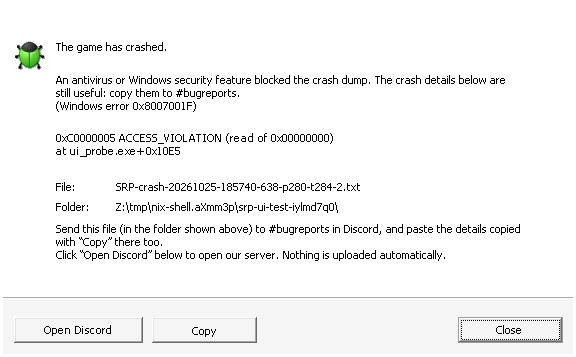
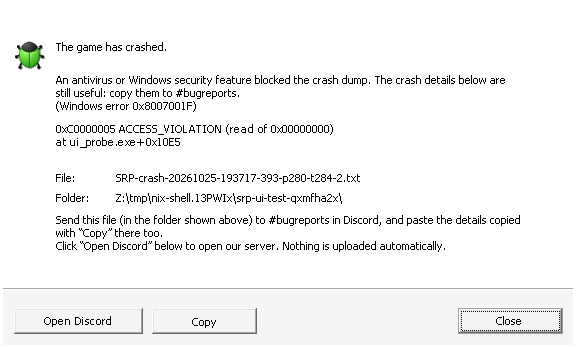
Crash reporter: review fixes for the crash details
- The stack scan could loop for ever: with ESP not 4-aligned and more
  than 256 KiB below the stack's top, its bound was unaligned and a last
  read of 1-3 bytes did not move it on, so the game hung. The bound is
  now whole dwords and a read of under 4 bytes ends the scan. The report
  is now made only after the dump is closed, so nothing in it can cost
  the dump. report_probe gains the reviewer's case (deep, misaligned).
- The log filter now takes the game's own [HH:MM:SS:mmm] as a record's
  clock (it took only [HH:MM:SS.mmm]), and the log tail starts at the
  first line that starts a record, never inside a sensitive record's
  continuation lines.
- The status line shrinks to its text, so the "saved" state has no
  empty band above the details.

diff --git a/client/bugtrap/tests/check_report.py b/client/bugtrap/tests/check_report.py
@@ -16,11 +16,10 @@ import zipfile
 build = Path(sys.argv[1]).resolve()
 assert os.environ.get("WINEPREFIX"), "set a disposable WINEPREFIX"
 
-# A game log as the game writes it: 30 records, one of them with a password.
-# (The filter frames records by [HH:MM:SS.mmm]; the game writes [HH:MM:SS:mmm],
-# so the records after a removed one go with it: omission, the safe side.)
+# A game log as the game writes it ([HH:MM:SS:mmm]): 30 records, one of them
+# with a password and an unframed continuation line.
 LOG = "".join(
-    f"game <INFO>\t[12:00:{n:02}:000]\t" + ("login password=hunter2" if n == 25 else f"record {n}") + "\r\n"
+    f"game <INFO>\t[12:00:{n:02}:000]\t" + ("login password=hunter2\r\nsecond-hunter2" if n == 25 else f"record {n}") + "\r\n"
     for n in range(1, 31)
 ).encode()
 
@@ -41,7 +40,9 @@ with tempfile.TemporaryDirectory(prefix="srp-report-test-") as temporary:
     docs = root / "Documents"
     (docs / "Survarium").mkdir(parents=True)
     (docs / "Survarium" / "Survarium_tester.log").write_bytes(LOG)
-    for mode in ("write", "cpp"):
+    # deep, misaligned: the review of PR 459, a stack 400 KB deep, ESP not
+    # 4-aligned; the scan once hung there, and the game with it, with no dump.
+    for mode in ("write", "cpp", "deep", "misaligned"):
         before = set(game.iterdir())
         result = subprocess.run(["wine", str(game / "report_probe.exe"), "Z:" + str(docs), mode],
                                 cwd=root, capture_output=True, timeout=60)
@@ -62,18 +63,25 @@ with tempfile.TemporaryDirectory(prefix="srp-report-test-") as temporary:
             assert "\r\nException: 0xC0000005 ACCESS_VIOLATION (write to 0x00000000)\r\n" in text, text
             module, at = offset(text, "Address:")
             assert module == "report_probe.exe" and rva["fault"] <= at < rva["fault"] + 0x40, (at, rva, text)
-        else:
+        elif mode == "cpp":
             assert "\r\nException: 0xE06D7363 C++ exception (.?AVbad_alloc@std@@)\r\n" in text, text
-        # The caller's return address is on the stack scan, as module+offset.
+        else:
+            assert "\r\nException: 0xC0000005 ACCESS_VIOLATION (write to 0x00000000)\r\n" in text, text
+            assert offset(text, "Address:")[0] == "report_probe.exe", text
+            esp = int(re.search(r" ESP=([0-9A-F]{8}) ", text)[1], 16)
+            assert (esp % 4 != 0) == (mode == "misaligned"), (mode, text)
         stack = re.findall(r"report_probe\.exe\+0x([0-9A-F]+)", text.split("Stack:", 1)[1].split("Game:", 1)[0])
-        assert any(rva["caller"] < int(at, 16) < rva["caller"] + 0x80 for at in stack), (stack, rva, text)
+        if mode in ("write", "cpp"):
+            # The caller's return address is on the stack scan, as module+offset.
+            assert any(rva["caller"] < int(at, 16) < rva["caller"] + 0x80 for at in stack), (stack, rva, text)
         assert re.search(r"\r\nThread:    \d+\r\nRegisters: EAX=[0-9A-F]{8} ", text), text
         assert "\r\nGame:      report_probe.exe, patch revision unknown, sha256 " in text, text
         assert re.search(r"\r\nWindows:   \d+\.\d+\.\d+ \(Wine [^)]+\)\r\n", text), text
         assert "\r\nDump:      saved\r\n" in text, text
         # The game log's last 20 lines, the password's record removed.
         tail = text.split("\r\nGame log:  ", 1)[1]
-        assert "record 11\r\n" in tail and "record 24\r\n" in tail and "record 10\r\n" not in tail, tail
+        assert "record 12\r\n" in tail and "record 24\r\n" in tail and "record 30\r\n" in tail, tail
+        assert "record 11\r\n" not in tail, tail  # 31 lines: the 20 last start at record 12
         assert "hunter2" not in text and "[SRP: sensitive log record removed]" in tail, tail
         print(f"PASS {mode}: {text.splitlines()[1]} at {offset(text, 'Address:')[0]}+..., "
               f"{len(stack)} probe frames on the stack, log tail filtered", flush=True)

diff --git a/client/bugtrap/src/ui.rs b/client/bugtrap/src/ui.rs
@@ -145,6 +145,7 @@ unsafe extern "system" fn dialog(window: HWND, msg: u32, wp: usize, lp: isize) -
                 (EC_LEFTMARGIN | EC_RIGHTMARGIN) as usize,
                 0,
             );
+            tighten(window);
             if data.have_dump {
                 SetDlgItemTextW(window, 1034, data.filename);
                 SetDlgItemTextW(window, 1035, data.folder);
@@ -298,6 +299,93 @@ unsafe extern "system" fn dialog(window: HWND, msg: u32, wp: usize, lp: isize) -
         _ => 0,
     }
 }
+/// The status line has room for four lines; with fewer, everything below it
+/// moves up by what is left over and the dialog is that much shorter.
+unsafe fn tighten(window: HWND) {
+    let message = GetDlgItem(window, 1031);
+    let mut bounds: RECT = core::mem::zeroed();
+    GetWindowRect(message, &mut bounds);
+    MapWindowPoints(null_mut(), window, (&mut bounds as *mut RECT).cast(), 2);
+    let mut text = [0u16; 1024];
+    let n = GetWindowTextW(message, text.as_mut_ptr(), text.len() as i32);
+    let mut needed = RECT {
+        left: 0,
+        top: 0,
+        right: bounds.right - bounds.left,
+        bottom: 0,
+    };
+    let dc = GetDC(message);
+    let old = SelectObject(dc, SendMessageW(message, WM_GETFONT, 0, 0) as HGDIOBJ);
+    DrawTextW(
+        dc,
+        text.as_ptr(),
+        n,
+        &mut needed,
+        DT_CALCRECT | DT_WORDBREAK | DT_NOPREFIX,
+    );
+    SelectObject(dc, old);
+    ReleaseDC(message, dc);
+    // A gap of 4 dialog units stays between the status and the details.
+    let mut gap = RECT {
+        left: 0,
+        top: 0,
+        right: 0,
+        bottom: 4,
+    };
+    MapDialogRect(window, &mut gap);
+    let slack = bounds.bottom - bounds.top - needed.bottom - gap.bottom;
+    if n == 0 || slack <= 0 {
+        return;
+    }
+    let width = bounds.right - bounds.left;
+    SetWindowPos(
+        message,
+        null_mut(),
+        0,
+        0,
+        width,
+        needed.bottom + gap.bottom,
+        SWP_NOMOVE | SWP_NOZORDER | SWP_NOACTIVATE,
+    );
+    for id in [
+        1039, 1040, 1042, 1037, 1034, 1038, 1035, 1036, 1033, 1013, 1041, IDCANCEL,
+    ] {
+        let control = GetDlgItem(window, id);
+        if control.is_null() {
+            continue;
+        }
+        let mut r: RECT = core::mem::zeroed();
+        GetWindowRect(control, &mut r);
+        MapWindowPoints(null_mut(), window, (&mut r as *mut RECT).cast(), 2);
+        // The white panel behind the text gets shorter; the rest moves up.
+        let (top, height) = if id == 1039 {
+            (r.top, r.bottom - r.top - slack)
+        } else {
+            (r.top - slack, r.bottom - r.top)
+        };
+        SetWindowPos(
+            control,
+            null_mut(),
+            r.left,
+            top,
+            r.right - r.left,
+            height,
+            SWP_NOZORDER | SWP_NOACTIVATE,
+        );
+    }
+    let mut frame: RECT = core::mem::zeroed();
+    GetWindowRect(window, &mut frame);
+    SetWindowPos(
+        window,
+        null_mut(),
+        frame.left,
+        frame.top + slack / 2,
+        frame.right - frame.left,
+        frame.bottom - frame.top - slack,
+        SWP_NOZORDER | SWP_NOACTIVATE,
+    );
+}
+
 /// Puts `text` on the clipboard as Unicode text.
 unsafe fn copy(window: HWND, text: &[u16]) -> bool {
     const CF_UNICODETEXT: u32 = 13;

diff --git a/client/bugtrap/tests/sanitize_tests.rs b/client/bugtrap/tests/sanitize_tests.rs
@@ -123,3 +123,38 @@ fn failure_after_sensitive_record_is_not_hidden_by_dropped_output() {
     assert!(filter.read(&mut out).unwrap() > 0);
     assert_eq!(filter.read(&mut out), Err(1234));
 }
+#[test]
+fn the_games_own_clock_frames_a_record() {
+    // The game writes [HH:MM:SS:mmm]: after a removed record, the next one
+    // of the game's is kept, its unframed continuation is not.
+    let text = b"game <INFO>\t[12:00:01:000]\tlogin password=SYNTHETIC\r\ncontinued-SYNTHETIC\r\ngame <INFO>\t[12:00:02:000]\tloading level\r\n";
+    let (out, removed) = filter(text, 5).unwrap();
+    let out = String::from_utf8(out).unwrap();
+    assert_eq!(removed, 2);
+    assert!(!out.contains("SYNTHETIC"), "{out}");
+    assert!(
+        out.ends_with("game <INFO>\t[12:00:02:000]\tloading level\r\n"),
+        "{out}"
+    );
+    // Not a clock: other separators, or not digits.
+    let fake = b"game <INFO>\t[12:00:01:000]\tpassword=SYNTHETIC\r\nx <INFO>\t[12:00:02,000]\tSYNTHETIC\r\n";
+    let (out, _) = filter(fake, 5).unwrap();
+    assert!(!out.windows(9).any(|b| b == b"SYNTHETIC"));
+}
+#[test]
+fn a_tail_starts_at_a_record_never_inside_a_continuation() {
+    // A tail cut inside a sensitive record's continuation lines.
+    let tail = b"continued-SYNTHETIC\r\nmore-SYNTHETIC\r\ngame <INFO>\t[12:00:02:000]\tloading level\r\nrender <ERROR>\t[12:00:03:000]\tmissing\r\n";
+    let from = sanitize::from_record(tail);
+    assert!(from.starts_with(b"game <INFO>"));
+    let (out, _) = filter(from, 7).unwrap();
+    assert!(!out.windows(9).any(|b| b == b"SYNTHETIC"));
+    assert!(out.ends_with(b"missing\r\n"));
+    // Updater records count too; nothing framed at all gives nothing.
+    assert!(sanitize::from_record(b"x\n2026-10-18 12:00:00 start\n").starts_with(b"2026-"));
+    assert!(sanitize::from_record(b"only\ncontinuation\n").is_empty());
+    assert_eq!(
+        sanitize::from_record(tail.as_slice()).len(),
+        tail.len() - 37
+    );
+}

diff --git a/client/bugtrap/tests/report_probe.cpp b/client/bugtrap/tests/report_probe.cpp
@@ -1,11 +1,13 @@
 // A real, unhandled crash for the text report (tests/check_report.py): a null
 // write two calls deep, or an MSVC-style C++ throw of std::bad_alloc that
-// nothing catches. It prints where its functions are, so the report's
+// nothing catches, or (from the review of PR 459) a null write with the
+// stack 400 KB deep, ESP 4-aligned or not ("deep", "misaligned"). It prints where its functions are, so the report's
 // module+offset and stack can be checked. Builds with MinGW (no __try).
 // Only for a disposable test profile: it redirects that profile's Documents.
 #include <windows.h>
 #include <stdio.h>
 #include <wchar.h>
+#include <malloc.h>
 
 #ifdef _MSC_VER
 #define NOINLINE __declspec(noinline)
@@ -74,5 +76,22 @@ int wmain(int argc, wchar_t** argv)
     Print("fault", (void*)Fault);
     Print("throw", (void*)Throw);
     Print("caller", (void*)Caller);
+    int misaligned = !wcscmp(argv[2], L"misaligned");
+    if (misaligned || !wcscmp(argv[2], L"deep")) {
+        // More than the scan's 256 KiB below the stack's top: with ESP not
+        // 4-aligned, the scan's bound is not either.
+        volatile char* deep = (volatile char*)_alloca(400 * 1024);
+        deep[0] = 1;
+#ifdef _MSC_VER
+        if (misaligned) __asm { sub esp, 2 }
+        __asm { xor eax, eax }
+        __asm { mov dword ptr [eax], 0x5A5A }
+#else
+        if (misaligned)
+            __asm__ volatile("subl $2, %%esp\n\tmovl $0, %%eax\n\tmovl $0x5A5A, (%%eax)" ::: "eax", "memory");
+        else
+            __asm__ volatile("movl $0, %%eax\n\tmovl $0x5A5A, (%%eax)" ::: "eax", "memory");
+#endif
+    }
     return Caller(!wcscmp(argv[2], L"cpp"), nowhere) ? 5 : 6;
 }

diff --git a/client/bugtrap/src/dump.rs b/client/bugtrap/src/dump.rs
@@ -267,15 +267,6 @@ unsafe extern "system" fn worker(parameter: *mut c_void) -> u32 {
     let mut error = ERROR_MOD_NOT_FOUND;
     let mut partial = false;
     let mut capture = false;
-    // A crash's text report: made whatever becomes of the dump.
-    let mut report = crate::report::Report::new();
-    if request.crash {
-        crate::report::collect(
-            &mut report,
-            request.exception.ExceptionPointers,
-            request.exception.ThreadId,
-        );
-    }
     if !library.is_null() {
         if let Some(proc) = GetProcAddress(library, c"MiniDumpWriteDump".as_ptr().cast()) {
             let write_dump: WriteDump = core::mem::transmute(proc);
@@ -307,6 +298,16 @@ unsafe extern "system" fn worker(parameter: *mut c_void) -> u32 {
         }
     }
     let kept = request.saved || partial;
+    // A crash's text report, whatever became of the dump: made only now that
+    // the dump is closed, so no fault or hang in it can cost the dump.
+    let mut report = crate::report::Report::new();
+    if request.crash {
+        crate::report::collect(
+            &mut report,
+            request.exception.ExceptionPointers,
+            request.exception.ThreadId,
+        );
+    }
     crate::report::finish(&mut report, request.saved, partial, error, capture);
     // The text report beside the dump (or, with none, beside the exe or in
     // the temporary folder, and the dialog names it in the dump's place);

diff --git a/client/bugtrap/src/report.rs b/client/bugtrap/src/report.rs
@@ -144,7 +144,10 @@ unsafe fn stack(w: &mut dyn Write, esp: usize) -> usize {
     {
         return 0;
     }
-    let end = (info.BaseAddress as usize + info.RegionSize).min(esp.saturating_add(STACK_BYTES));
+    // Whole dwords only: with an unaligned ESP the 256 KiB bound is unaligned,
+    // and a last read of 1-3 bytes would not move the scan on.
+    let end =
+        (info.BaseAddress as usize + info.RegionSize).min(esp.saturating_add(STACK_BYTES)) & !3;
     // The last region asked about: [start, end) and whether it is image code.
     let mut code = (0usize, 0usize, false);
     let mut found = 0;
@@ -162,7 +165,7 @@ unsafe fn stack(w: &mut dyn Write, esp: usize) -> usize {
             want,
             &mut n,
         ) == 0
-            || n == 0
+            || n < 4
         {
             break;
         }
@@ -540,7 +543,9 @@ unsafe fn log_tail(w: &mut dyn Write) {
             *b = b'?';
         }
     }
-    let lines = details::last_lines(tail, LOG_LINES, from == 0);
+    // From a record's first line: the cut may fall inside the continuation
+    // lines of a sensitive record, which a fresh filter would let through.
+    let lines = crate::sanitize::from_record(details::last_lines(tail, LOG_LINES, from == 0));
     let _ = write!(
         w,
         "Game log:  last {LOG_LINES} lines of the newest Survarium*.log in Documents\\Survarium\r\n"

diff --git a/client/bugtrap/src/sanitize.rs b/client/bugtrap/src/sanitize.rs
@@ -204,12 +204,31 @@ fn clock(text: &[u8]) -> bool {
     text.len() == 12
         && text[2] == b':'
         && text[5] == b':'
-        && text[8] == b'.'
+        // HH:MM:SS.mmm, and the game's own HH:MM:SS:mmm.
+        && (text[8] == b'.' || text[8] == b':')
         && digits(&text[..2])
         && digits(&text[3..5])
         && digits(&text[6..8])
         && digits(&text[9..])
 }
+/// `text` from its first line that starts a record: a cut taken from the
+/// middle of a log (its tail) may begin inside a sensitive record's
+/// continuation lines, which a fresh [`Filter`] cannot know to remove.
+pub fn from_record(text: &[u8]) -> &[u8] {
+    let mut at = 0;
+    while at < text.len() {
+        let end = text[at..]
+            .iter()
+            .position(|&b| b == b'\n')
+            .map_or(text.len(), |n| at + n + 1);
+        if record_start(&text[at..end]) {
+            return &text[at..];
+        }
+        at = end;
+    }
+    &[]
+}
+
 fn record_start(line: &[u8]) -> bool {
     // Updater: YYYY-MM-DD HH:MM:SS + space.
     if line.len() >= 20

diff --git a/client/bugtrap/README.md b/client/bugtrap/README.md
@@ -88,10 +88,14 @@ Game log:  last 20 lines of the newest Survarium*.log in Documents\Survarium
   folders themselves are not written.
 - Dump: saved, or why not, with the Windows error.
 - Game log: the last 20 lines of the newest `Survarium*.log` in
-  Documents\Survarium (its last 8 KiB), through the same credential filter as
-  the ZIP's logs; the file name is not written (it holds the account name).
+  Documents\Survarium (its last 8 KiB), from the first line that starts a
+  record (a cut inside a sensitive record's continuation lines would not be
+  caught), through the same credential filter as the ZIP's logs; the file
+  name is not written (it holds the account name).
 - Every read of the game's memory goes through `ReadProcessMemory`: a
-  damaged pointer gives no line, not a second crash.
+  damaged pointer gives no line, not a second crash. The stack scan reads
+  whole dwords only and stops at a short read. The report is made only after
+  the dump is closed, so nothing in it can cost the dump.
 
 Where it goes: `SRP-crash-…-N.txt` beside the dump (the same name), and into
 the ZIP as `crash.txt`; with no dump, as a new `SRP-crash-…-N.txt` beside the
@@ -210,7 +214,7 @@ A dump is about 160–190 MB (it holds the game's data segments); zipped, it is
   authorization/bearer/basic-auth, token, secret, API/access/session-key, cookie,
   credential, command-line or URL-userinfo markers are replaced with a fixed
   removal notice. Following unframed lines are removed until the next native
-  `channel <level>\t[HH:MM:SS.mmm]\t` or updater `YYYY-MM-DD HH:MM:SS ` record.
+  `channel <level>\t[HH:MM:SS.mmm]\t` (or the game's `[HH:MM:SS:mmm]`) or updater `YYYY-MM-DD HH:MM:SS ` record.
   This deliberately favors omission over retaining ambiguous continuations.
   Unclosed quotes/trailing backslashes in sensitive lines, oversized lines,
   invalid UTF-8, UTF-16/32, NUL/binary/control bytes omit the entire source.
@@ -480,11 +484,12 @@ WINEPREFIX=/path/to/disposable-prefix python3 tests/check_report.py target/i686-
 ```
 
 It redirects that prefix's Documents to a folder with a game log, crashes
-with a null write two calls deep and with an uncaught MSVC-style
-`std::bad_alloc`, and checks the report beside the ZIP and in it: the
+with a null write two calls deep, with an uncaught MSVC-style
+`std::bad_alloc`, and with a null write 400 KB down the stack, ESP 4-aligned
+or not (the scan once hung there), and checks the report beside the ZIP and in it: the
 exception line, the address inside the faulting function as module+offset,
 the caller on the stack scan, the other lines, and the log tail with a
-password's record removed.
+password's record and its continuation removed and the records after it kept.
 
 Run on 2026-10-21 (Linux, Wine, Xvfb), the build with the standard library
 and the C runtime linked in, the C++ probes built with `clang-cl` against the
@@ -499,8 +504,8 @@ and ZIP (7) tests pass.
 
 Run on 2026-10-25 for the crash details (Linux, Wine Staging 11.8, Xvfb; the
 probes built with MinGW g++ 15.3): `check_abi.py`, `check_localization.py`
-(47 dialogs), `check_report.py` (2 crashes) and `check_logs.py` pass; the
-text tests (10) pass; `client/check-reproducible.sh` gives the same DLL
+(47 dialogs), `check_report.py` (4 crashes) and `check_logs.py` pass; the
+text (10) and sanitize (7) tests pass; `client/check-reproducible.sh` gives the same DLL
 twice. `check_dumps.py` was not run: its probe uses MSVC `__try`, which
 MinGW does not build.
 
